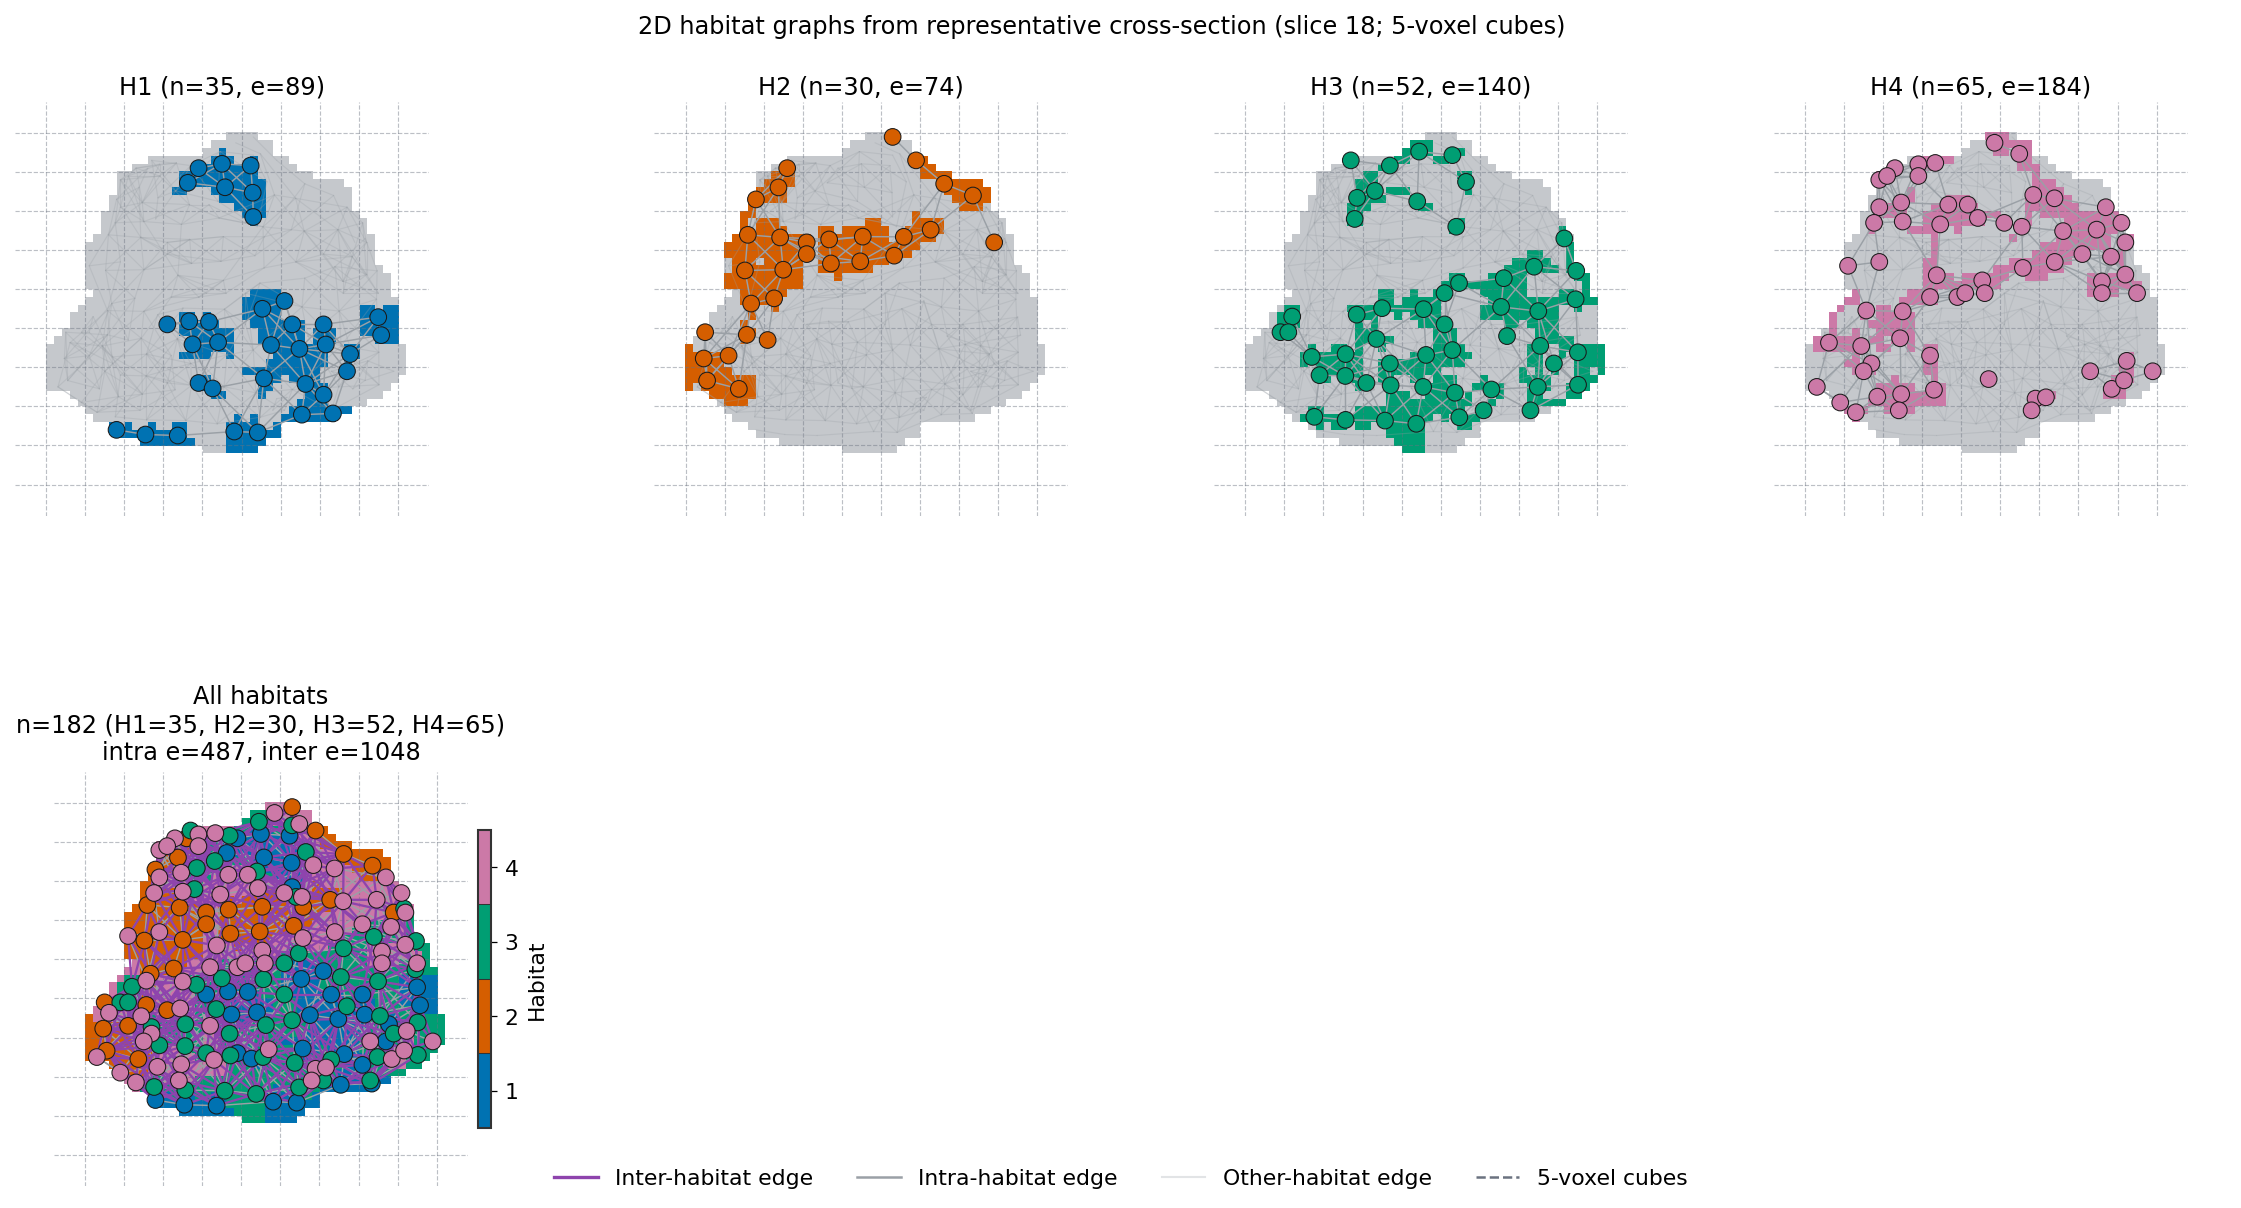
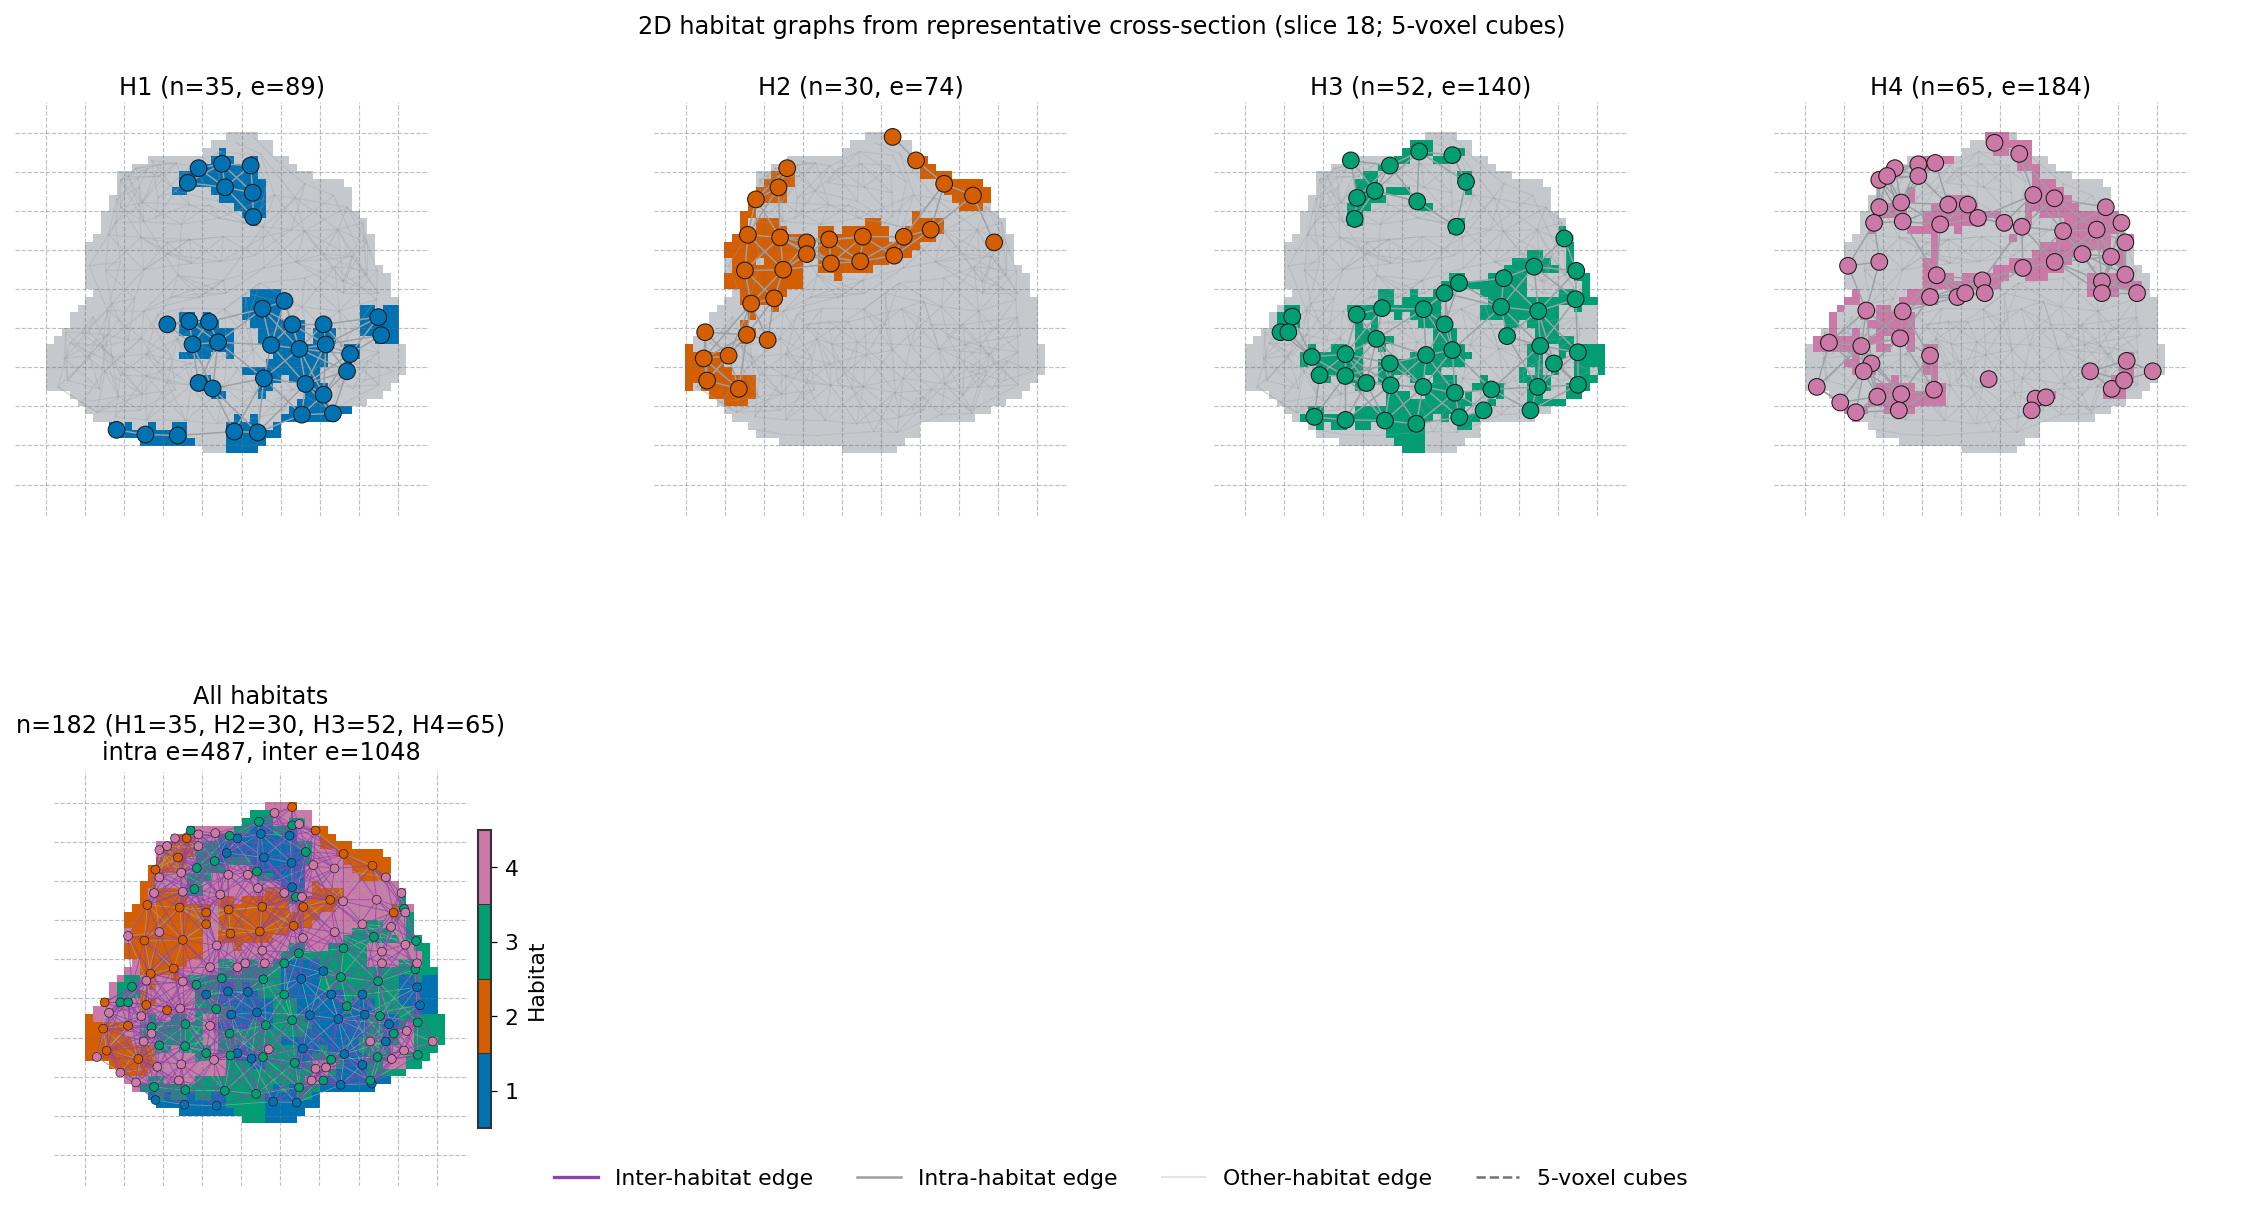
viz: thin crowded all-habitat graph nodes and edges
Keep the All-habitats panel readable at ~180 nodes, and show a reproducible 10-feature sample on the gallery page.

Changed region(s): [[0.0312, 0.6738, 0.1874, 0.9189]]

diff --git a/habit/viz/habitat_graph.py b/habit/viz/habitat_graph.py
@@ -366,8 +366,21 @@ def _habitat_colors(labels: Sequence[int]) -> Dict[int, str]:
     return {label: hexes[index] for index, label in enumerate(ordered)}
 
 
-#: Matplotlib scatter area (points^2) for every 2D graph node.
+#: Matplotlib scatter area (points^2) for H1--Hk panel nodes.
 _DEFAULT_NODE_SIZE: float = 64.0
+#: Combined All-habitats panel: many nodes plus intra/inter edges share
+#: one axes, so markers stay smaller than the per-habitat panels.
+_ALL_PANEL_NODE_SIZE: float = 18.0
+#: Marker rim width (points) on H panels vs the crowded All panel.
+_NODE_EDGE_WIDTH: float = 0.5
+_ALL_PANEL_NODE_EDGE_WIDTH: float = 0.30
+#: Featured intra-habitat edges on H1--Hk panels (opaque).
+_FEATURED_INTRA_EDGE_WIDTH: float = 0.7
+#: Combined All-habitats panel strokes (thinner than H panels).
+_ALL_PANEL_INTRA_EDGE_WIDTH: float = 0.35
+_ALL_PANEL_INTER_EDGE_WIDTH: float = 0.45
+_ALL_PANEL_INTRA_EDGE_ALPHA: float = 0.85
+_ALL_PANEL_INTER_EDGE_ALPHA: float = 0.80
 #: Publication-readable type sizes for the multi-panel 2D network figure.
 _PANEL_TITLE_FONTSIZE: float = 11.5
 _AXIS_TEXT_FONTSIZE: float = 10.5
@@ -698,11 +711,25 @@ def _draw_edges_2d(
         )
 
 
+def _scaled_all_panel_node_size(node_size: float) -> float:
+    """
+    Derive the All-habitats marker area from the H-panel ``node_size``.
+
+    Args:
+        node_size: Scatter area used on H1--Hk panels.
+
+    Returns:
+        float: Scatter area for the combined All-habitats panel.
+    """
+    return float(node_size) * (_ALL_PANEL_NODE_SIZE / _DEFAULT_NODE_SIZE)
+
+
 def _draw_nodes_2d(
     ax,
     nodes: Sequence[HabitatGraphNode],
     colors: Dict[int, str],
     node_size: float = _DEFAULT_NODE_SIZE,
+    linewidths: float = _NODE_EDGE_WIDTH,
 ) -> None:
     """
     Scatter 2D graph nodes at projected region centroids, colored by habitat.
@@ -716,6 +743,7 @@ def _draw_nodes_2d(
         colors: Habitat label to hex colour mapping.
         node_size: Matplotlib scatter area in points squared. The same
             value is applied to every node.
+        linewidths: Marker rim width in points.
     """
     if not nodes:
         return
@@ -730,7 +758,7 @@ def _draw_nodes_2d(
         # Dark rim, not white: a white edge on a small marker reads as a
         # pale / hollow node even when face alpha is 1.0.
         edgecolors="#1A1A1A",
-        linewidths=0.5,
+        linewidths=float(linewidths),
         alpha=1.0,
         zorder=4,
     )
@@ -942,7 +970,10 @@ def plot_habitat_graph_network_2d(
         panel_size: Base panel edge length in inches.
         max_cols: Maximum number of panels per row in the grid.
         node_size: Matplotlib scatter area in points squared applied to
-            every node (default ``64``). Voxel count does not scale markers.
+            H1--Hk panel nodes (default ``64``). The All-habitats panel
+            uses a smaller derived area (default ``18``) so a crowded
+            combined graph stays readable. Voxel count does not scale
+            markers.
         colorbar: Discrete habitat-ID colorbar on the combined-graph panel
             (default ``True``). Pass ``False`` to hide it.
         colorbar_label: Colorbar label (English default ``\"Habitat\"``).
@@ -1030,8 +1061,22 @@ def plot_habitat_graph_network_2d(
                 )
             edges = _single_intra_edges(sub, label, options, node_result)
             # Featured intra-habitat edges stay opaque so the panel is readable.
-            _draw_edges_2d(ax, id_to_node, edges, _INTRA_EDGE_COLOR, 0.7, 1.0, 2)
-            _draw_nodes_2d(ax, sub, colors, node_size=node_size)
+            _draw_edges_2d(
+                ax,
+                id_to_node,
+                edges,
+                _INTRA_EDGE_COLOR,
+                _FEATURED_INTRA_EDGE_WIDTH,
+                1.0,
+                2,
+            )
+            _draw_nodes_2d(
+                ax,
+                sub,
+                colors,
+                node_size=node_size,
+                linewidths=_NODE_EDGE_WIDTH,
+            )
             # Slice index lives on the figure title; keep panel titles short
             # so neighbouring H1 / H2 headings cannot run into each other.
             _style_axis_2d(
@@ -1047,15 +1092,33 @@ def plot_habitat_graph_network_2d(
             ax_cross, label_2d, node_result, options, **grid_kwargs
         )
         _draw_edges_2d(
-            ax_cross, id_to_node, intra_edges, _INTRA_EDGE_COLOR, 0.7, 1.0, 2
+            ax_cross,
+            id_to_node,
+            intra_edges,
+            _INTRA_EDGE_COLOR,
+            _ALL_PANEL_INTRA_EDGE_WIDTH,
+            _ALL_PANEL_INTRA_EDGE_ALPHA,
+            2,
         )
         _draw_edges_2d(
-            ax_cross, id_to_node, inter_edges, _INTER_EDGE_COLOR, 1.1, 1.0, 3
+            ax_cross,
+            id_to_node,
+            inter_edges,
+            _INTER_EDGE_COLOR,
+            _ALL_PANEL_INTER_EDGE_WIDTH,
+            _ALL_PANEL_INTER_EDGE_ALPHA,
+            3,
         )
         all_nodes = [
             node for label in labels for node in node_result.nodes_by_habitat[label]
         ]
-        _draw_nodes_2d(ax_cross, all_nodes, colors, node_size=node_size)
+        _draw_nodes_2d(
+            ax_cross,
+            all_nodes,
+            colors,
+            node_size=_scaled_all_panel_node_size(node_size),
+            linewidths=_ALL_PANEL_NODE_EDGE_WIDTH,
+        )
         _style_axis_2d(
             ax_cross,
             label_2d,

diff --git a/docs/source/examples/scripts/graph_features_demo.py b/docs/source/examples/scripts/graph_features_demo.py
@@ -18,6 +18,8 @@ from __future__ import annotations
 # BEGIN example
 from pathlib import Path
 
+import numpy as np
+
 from habit import (
     HabitatGraphFeatureOptions,
     cohort_from_directory,
@@ -44,11 +46,22 @@ options = HabitatGraphFeatureOptions(include_extended_metrics=False)
 slice_index = int((labels > 0).reshape(labels.shape[0], -1).sum(axis=1).argmax())
 feats = extract_graph_features(labels[slice_index], options=options)
 print(len(feats), "graph features from representative slice", slice_index)
+# Reproducible 10-feature sample (fixed seed). Swap SAMPLE_SEED if you like.
+SAMPLE_SEED = 0
+rng = np.random.default_rng(SAMPLE_SEED)
+names = sorted(feats)
+sample_names = [str(names[i]) for i in rng.choice(len(names), size=10, replace=False)]
+sample = {name: float(feats[name]) for name in sorted(sample_names)}
+print("Ten sampled graph features (seed=%d):" % SAMPLE_SEED)
+for name, value in sample.items():
+    print(f"  {name}: {value:.6g}")
 # END example
 
 # BEGIN figures
-# Paste after the Script block. Uses cohort, result, labels, options, and MODALITIES.
-from habit.viz import plot_habitat_graph_network_2d, plot_habitat_overlay
+# Paste after the Script block. Uses cohort, result, labels, options, sample, and MODALITIES.
+import matplotlib.pyplot as plt
+
+from habit.viz import plot_habitat_graph_network_2d, plot_habitat_overlay, use_style
 
 Path("out").mkdir(exist_ok=True)
 # Overlay: ImageVolume + HabitatMap (3-panel orthogonal default).
@@ -67,7 +80,19 @@ fig = plot_habitat_graph_network_2d(
     grid_linestyle="--",
 )
 fig.savefig("out/graph_habitat_network_2d.png", dpi=150, bbox_inches="tight")
-print("Wrote out/graph_habitat_slice_2d.png and out/graph_habitat_network_2d.png")
+# Same `sample` dict printed in the Script block (seed=0).
+with use_style("radiology"):
+    fig, ax = plt.subplots(figsize=(7.4, 3.8), constrained_layout=True)
+    bar_names = list(sample.keys())
+    bar_values = [sample[name] for name in bar_names]
+    ax.barh(bar_names[::-1], bar_values[::-1], color="#4C78A8", height=0.65)
+    ax.set_xlabel("Value")
+    ax.set_title("Ten sampled graph features (seed=0)")
+    fig.savefig("out/graph_feature_sample.png", dpi=150, bbox_inches="tight")
+print(
+    "Wrote out/graph_habitat_slice_2d.png, "
+    "out/graph_habitat_network_2d.png, and out/graph_feature_sample.png"
+)
 # END figures
 
 if __name__ == "__main__":
@@ -83,6 +108,7 @@ if __name__ == "__main__":
         (
             "graph_habitat_slice_2d.png",
             "graph_habitat_network_2d.png",
+            "graph_feature_sample.png",
         )
     )
 

diff --git a/tests/viz/test_habitat_graph.py b/tests/viz/test_habitat_graph.py
@@ -261,6 +261,47 @@ def test_plot_habitat_graph_network_2d_display_block_size_overrides() -> None:
     plt.close(fig)
 
 
+def test_plot_habitat_graph_network_2d_all_panel_marks_are_thinner() -> None:
+    """All-habitats panel uses smaller nodes and thinner edges than H panels."""
+    labels = _synthetic_2d_labels()
+    options = HabitatGraphFeatureOptions(
+        edge_method="centroid_distance",
+        distance_threshold=30.0,
+        erosion_radius=0,
+        node_method="component",
+        subdivide_region_voxels=0,
+        include_extended_metrics=False,
+    )
+    fig = plot_habitat_graph_network_2d(labels, options=options, show_grid=False)
+    assert isinstance(fig, Figure)
+    habitat_sizes: list[float] = []
+    all_sizes: list[float] = []
+    habitat_widths: list[float] = []
+    all_widths: list[float] = []
+    for ax in fig.axes:
+        title = ax.get_title()
+        sizes = [
+            float(size)
+            for collection in ax.collections
+            if hasattr(collection, "get_sizes")
+            for size in np.asarray(collection.get_sizes(), dtype=float)
+        ]
+        widths = [float(line.get_linewidth()) for line in ax.lines]
+        if title.startswith("All habitats"):
+            all_sizes.extend(sizes)
+            all_widths.extend(widths)
+        elif title.startswith("H"):
+            habitat_sizes.extend(sizes)
+            habitat_widths.extend(widths)
+    assert habitat_sizes and all_sizes
+    assert max(all_sizes) < min(habitat_sizes)
+    assert habitat_widths and all_widths
+    assert max(all_widths) < max(habitat_widths)
+    import matplotlib.pyplot as plt
+
+    plt.close(fig)
+
+
 def test_plot_habitat_graph_network_2d_other_habitat_edges_are_translucent() -> None:
     """Per-habitat panels draw other habitats' intra-edges more transparent."""
     labels = _synthetic_2d_labels()

diff --git a/docs/source/examples/graph_features.rst b/docs/source/examples/graph_features.rst
@@ -6,7 +6,8 @@ Graph features from habitat maps
 
 End-to-end: one subject → :func:`~habit.one_step_habitat` with a **fixed**
 ``n_habitats=4`` (not ``"auto"``) →
-:func:`~habit.extract_graph_features` → overlay +
+:func:`~habit.extract_graph_features` → a reproducible 10-feature
+sample (fixed seed) → overlay +
 :func:`~habit.viz.plot_habitat_graph_network_2d`. This example uses the
 library defaults on :class:`~habit.HabitatGraphFeatureOptions`:
 ``node_method='uniform_grid'`` (5-voxel cubes, not millimetres; one
@@ -24,7 +25,8 @@ Change ``DATA`` / ``MODALITIES`` / ``ROI`` to your preprocessed tree
 uses the library node/edge defaults (uniform 5-voxel cubes, one node
 per in-cell subregion centroid + min-distance edges; extended metrics
 off so a full 3D mixed lattice stays interactive), then extracts graph
-topology and draws the overlay plus the 2D network with the dashed
+topology, prints ten sampled feature values (``SAMPLE_SEED = 0``),
+and draws the overlay plus the 2D network with the dashed
 lattice. Figures land under ``out/`` (swap that
 path too if you like).
 
@@ -37,8 +39,10 @@ Draw the figures
 ----------------
 
 Paste this after the Script block (it uses ``cohort``, ``result``,
-``labels``, and ``options``). Writes ``out/graph_habitat_slice_2d.png``
-(orthogonal overlay) and ``out/graph_habitat_network_2d.png``.
+``labels``, ``options``, and ``sample``). Writes
+``out/graph_habitat_slice_2d.png`` (orthogonal overlay),
+``out/graph_habitat_network_2d.png``, and
+``out/graph_feature_sample.png``.
 
 .. literalinclude:: scripts/graph_features_demo.py
    :language: python
@@ -56,6 +60,28 @@ Illustrative (fixed ``n_habitats=4``, per-cell subregion centroids;
 count depends on the habitat map)::
 
    397 graph features from representative slice 96
+   Ten sampled graph features (seed=0):
+     pair_h1_h2_avg_degree_2_norm: 0.090625
+     pair_h1_h2_connected_components_norm: 0.0153846
+     pair_h1_h2_isolated_ratio_1: 0.685714
+     pair_h1_h3_isolated_ratio_2: 0.115385
+     pair_h1_h4_edge_density: 0.0703297
+     pair_h2_h3_avg_degree_1: 8.8
+     pair_h3_h4_avg_degree_1_norm: 0.0971485
+     single_h1_avg_path_length: 2.75397
+     single_h3_avg_edge_distance: 2.24534
+     single_h3_connected_components_ratio: 0.0384615
+
+Sampled feature values
+----------------------
+
+.. figure:: ../_static/images/examples/graph_feature_sample.png
+   :alt: Horizontal bar chart of ten sampled graph-feature values
+   :width: 560
+
+   Ten features drawn with ``numpy.random.default_rng(0)`` from the
+   same ``feats`` dict printed above. Swap ``SAMPLE_SEED`` in the
+   Script block to draw a different set.
 
 Anatomy with habitats
 ---------------------
